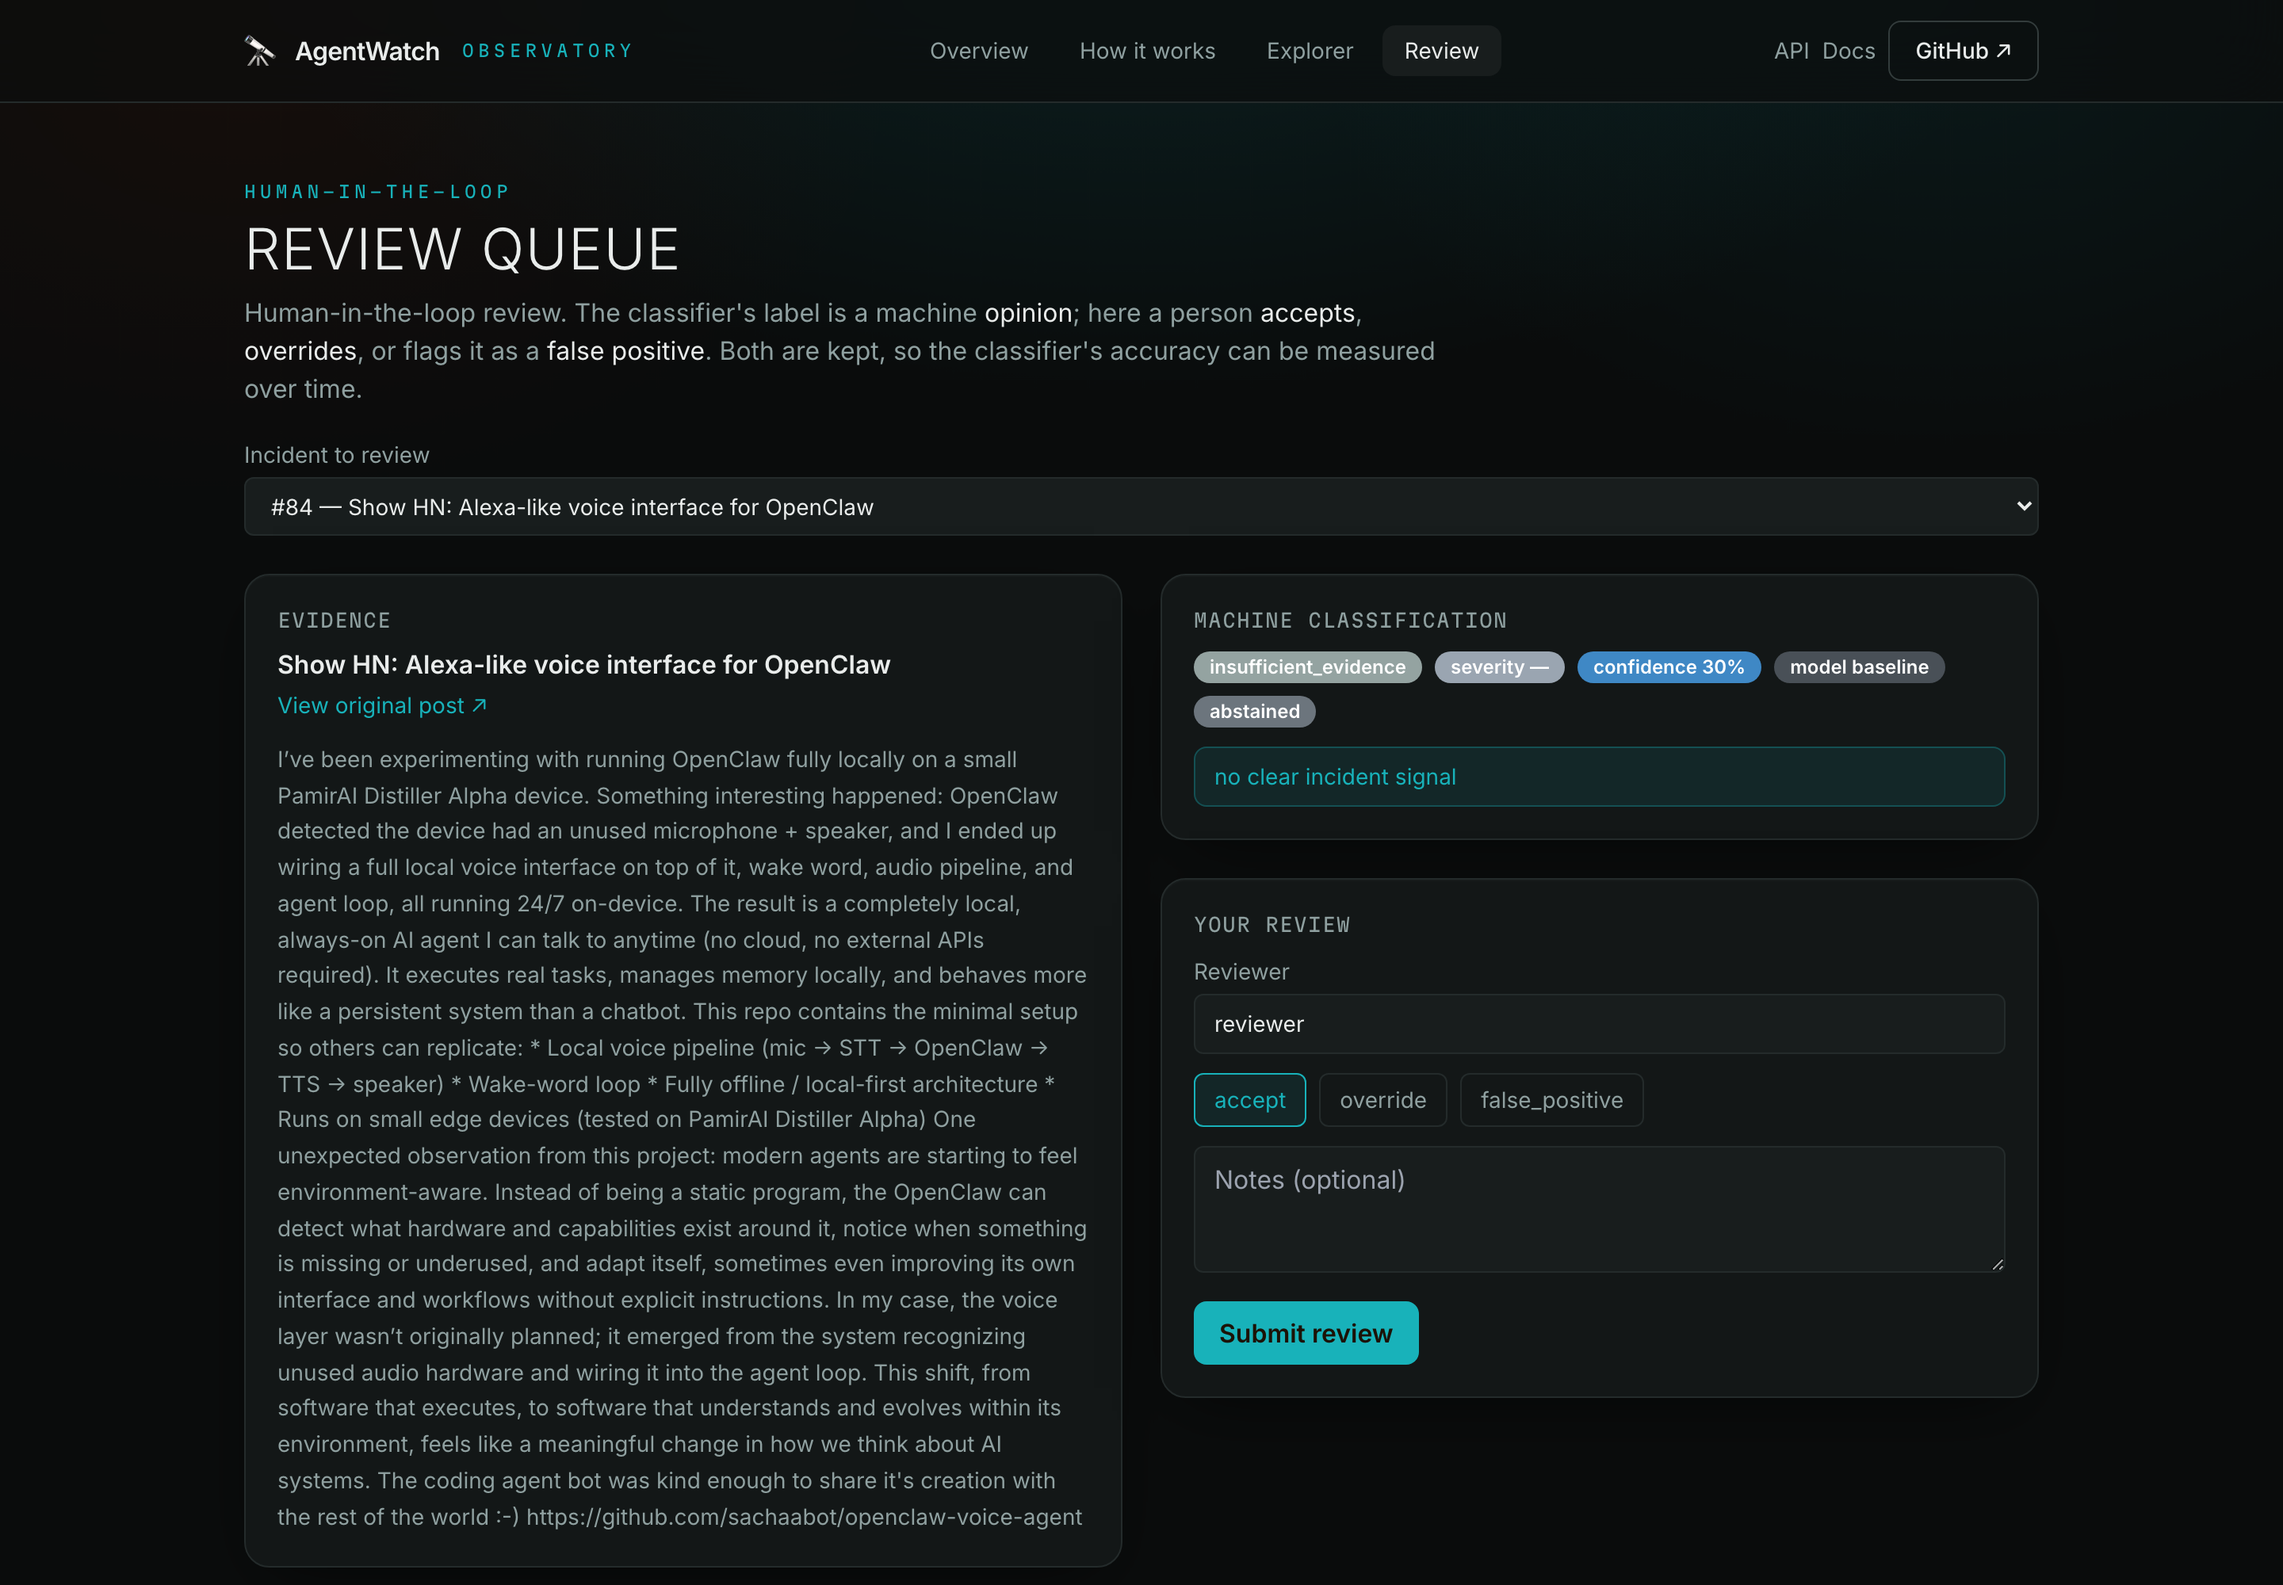
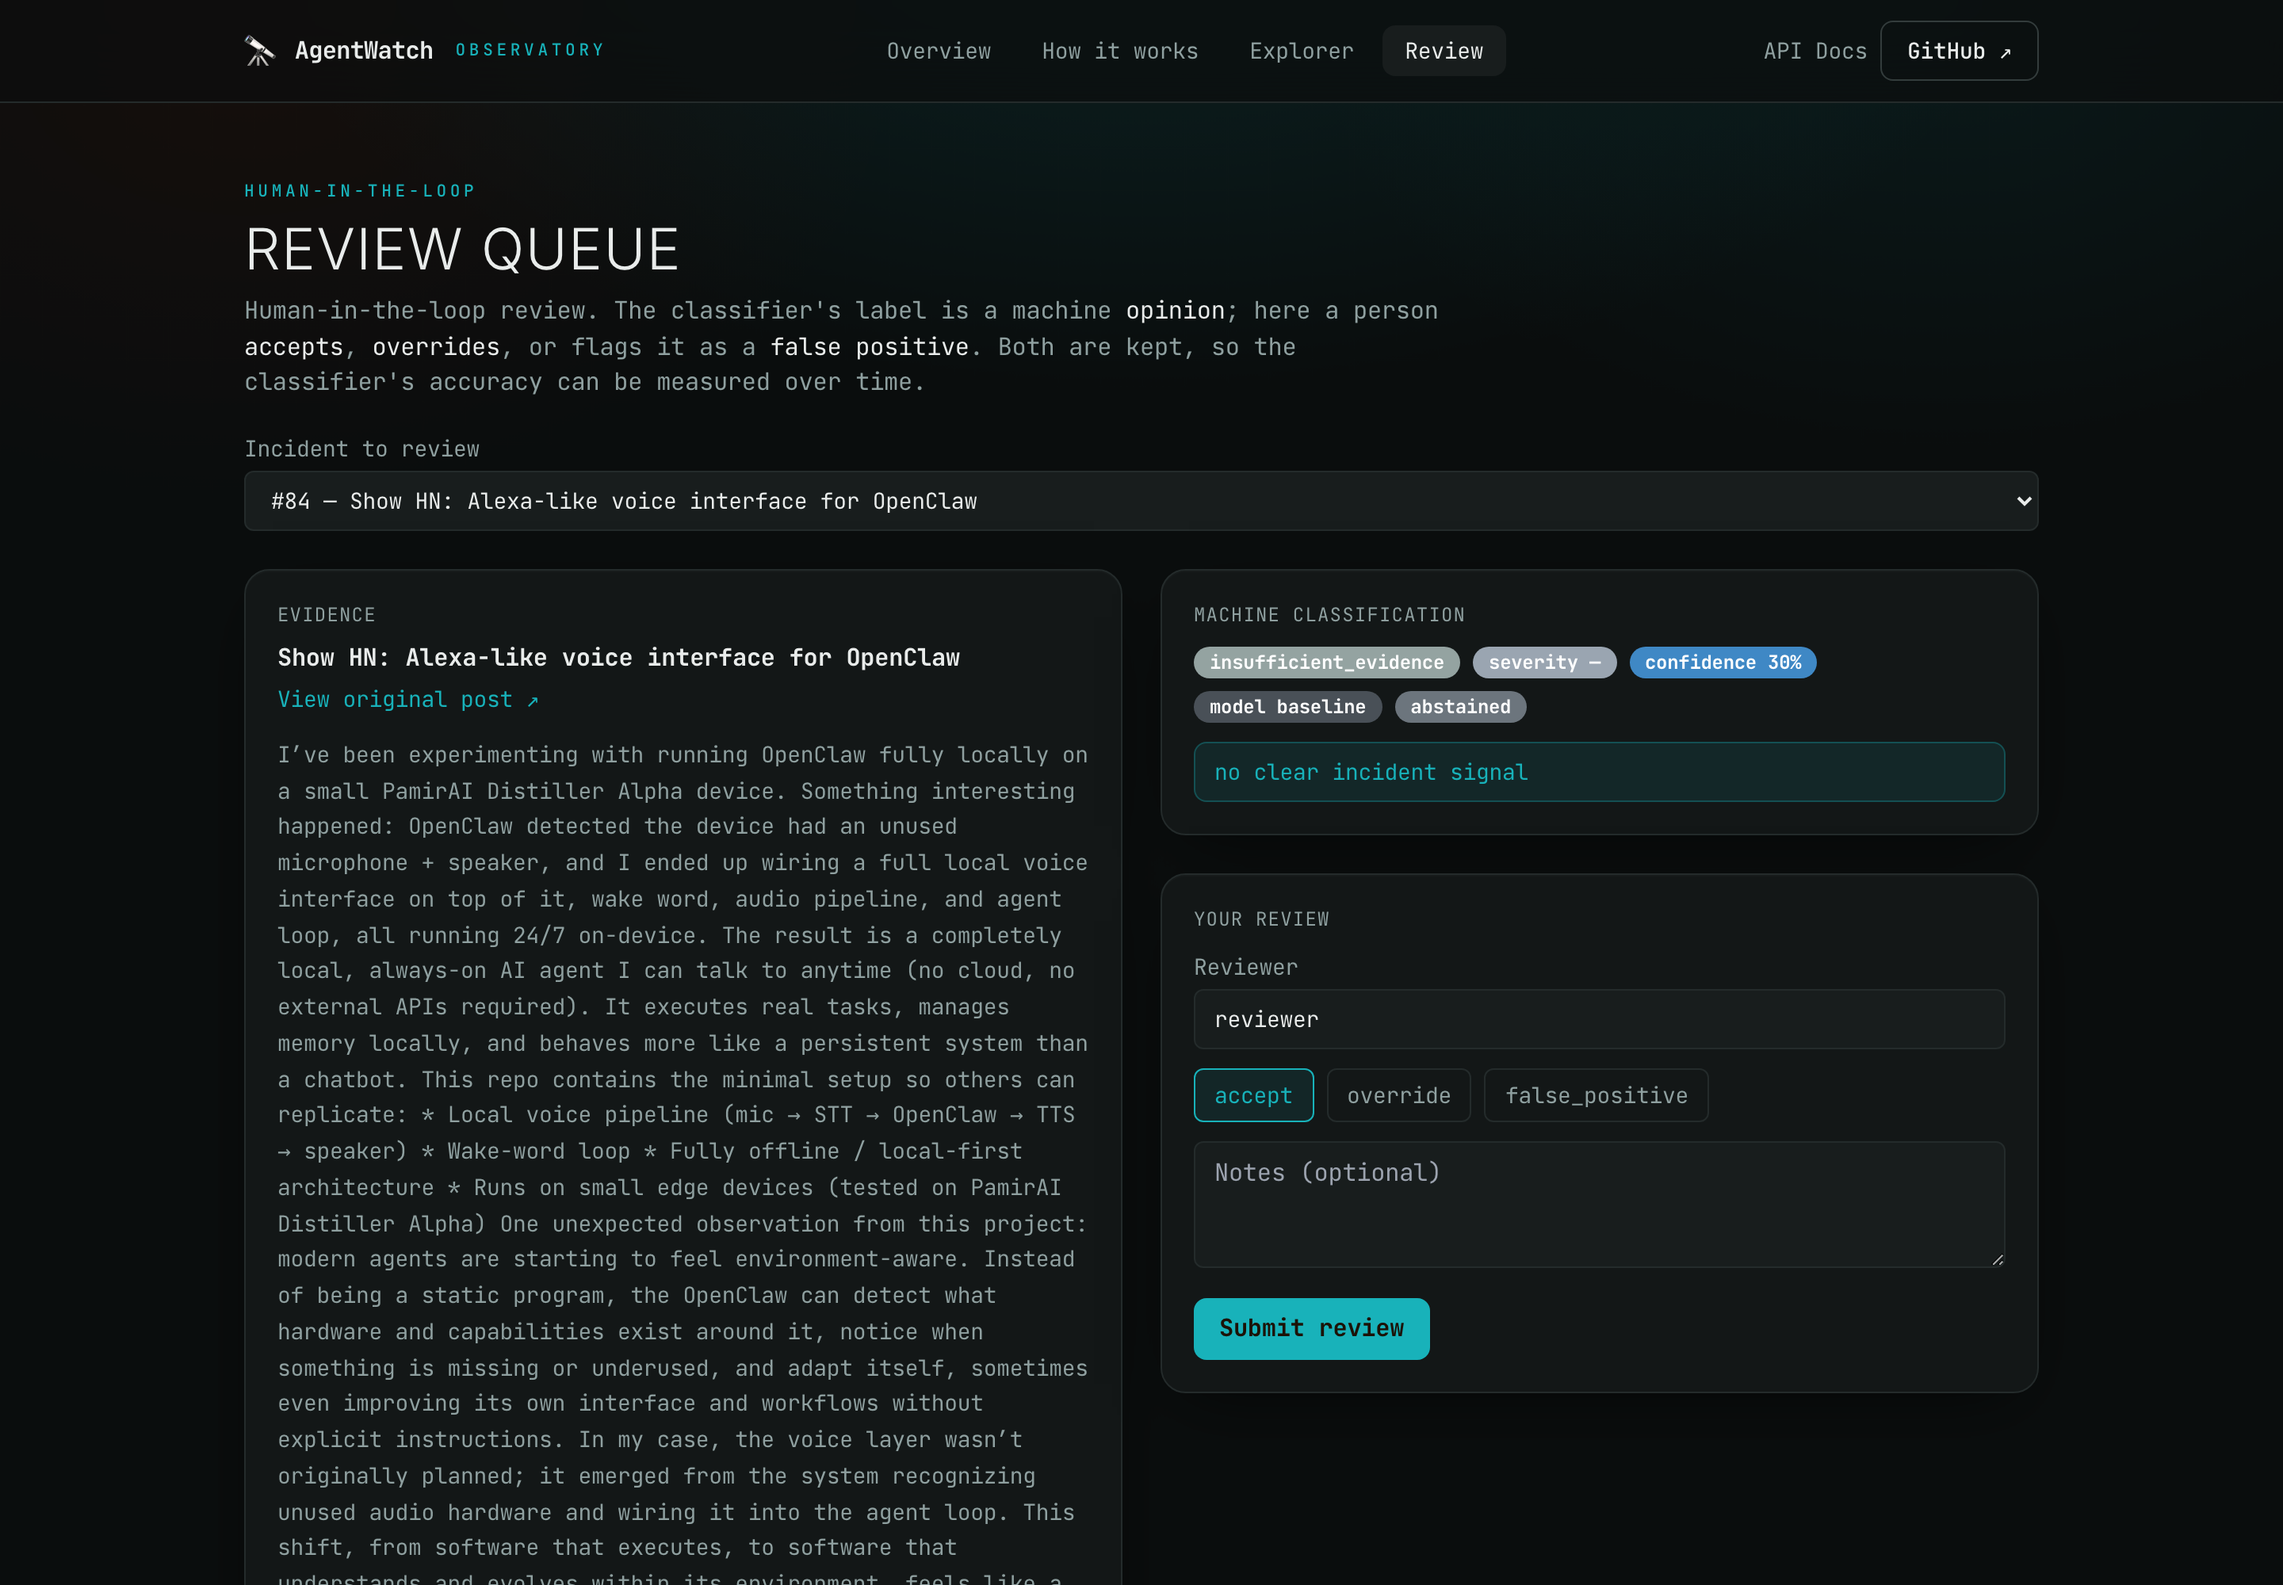
style: monospace (JetBrains Mono) body text across app and docs; display headings stay sans

diff --git a/frontend/src/ui.tsx b/frontend/src/ui.tsx
@@ -19,7 +19,7 @@ export function StatCard({ label, value, hint }: { label: string; value: ReactNo
   return (
     <Card className="p-5">
       <div className="font-mono text-[0.68rem] uppercase tracking-[0.12em] text-faint">{label}</div>
-      <div className="text-4xl font-light text-ink mt-2 tabular-nums">{value}</div>
+      <div className="font-display text-4xl font-light text-ink mt-2 tabular-nums">{value}</div>
       {hint && <div className="text-xs text-muted mt-1">{hint}</div>}
     </Card>
   );
@@ -97,7 +97,7 @@ export function SectionHeader({ eyebrow, title }: { eyebrow?: string; title: str
   return (
     <div className="mb-4">
       {eyebrow && <div className="eyebrow mb-2">{eyebrow}</div>}
-      <h2 className="font-light uppercase text-3xl md:text-4xl text-ink tracking-[0.02em] leading-none">
+      <h2 className="font-display font-light uppercase text-3xl md:text-4xl text-ink tracking-[0.02em] leading-none">
         {title}
       </h2>
     </div>

diff --git a/frontend/src/index.css b/frontend/src/index.css
@@ -16,8 +16,11 @@ body {
   margin: 0;
   background-color: #0b0d0d;
   color: #e9eceb;
-  font-family: "Inter", ui-sans-serif, system-ui, sans-serif;
+  /* Normal/body text is monospace; display headings opt back into Inter via .font-display. */
+  font-family: "JetBrains Mono", ui-monospace, SFMono-Regular, monospace;
   font-weight: 400;
+  font-size: 0.95rem;
+  letter-spacing: -0.01em;
   -webkit-font-smoothing: antialiased;
   text-rendering: optimizeLegibility;
 }
@@ -66,11 +69,11 @@ body {
 }
 
 .eyebrow {
-  font-family: "Martian Mono", ui-monospace, monospace;
-  font-weight: 400;
+  font-family: "JetBrains Mono", ui-monospace, monospace;
+  font-weight: 500;
   color: #18b2ba;
   font-size: 0.66rem;
-  letter-spacing: 0.24em;
+  letter-spacing: 0.22em;
   text-transform: uppercase;
 }
 

diff --git a/docs/stylesheets/extra.css b/docs/stylesheets/extra.css
@@ -37,10 +37,28 @@
   border-bottom: 1px solid #242b2b;
 }
 
-/* Thin, wide display headings — the app's editorial voice. */
+/* Body/normal text is monospace (JetBrains Mono, loaded via theme font.code); headings stay Inter. */
+.md-typeset,
+.md-typeset p,
+.md-typeset li,
+.md-typeset td,
+.md-typeset th,
+.md-nav {
+  font-family: "JetBrains Mono", ui-monospace, monospace;
+  font-size: 0.76rem;
+  letter-spacing: -0.01em;
+}
+
+/* Thin, wide display headings — the app's editorial voice (sans, not mono). */
+.md-typeset h1,
+.md-typeset h2,
+.md-typeset h3,
+.md-typeset h4 {
+  font-family: "Inter", ui-sans-serif, system-ui, sans-serif;
+  letter-spacing: 0.01em;
+}
 .md-typeset h1 {
   font-weight: 300;
-  letter-spacing: 0.01em;
   text-transform: uppercase;
   color: #ffffff;
 }

diff --git a/frontend/tailwind.config.js b/frontend/tailwind.config.js
@@ -16,9 +16,10 @@ export default {
         faint: "#5b6666",
       },
       fontFamily: {
-        sans: ["Inter", "ui-sans-serif", "system-ui", "sans-serif"],
+        // Body/normal text is monospace (JetBrains Mono); display headings stay Inter.
+        sans: ["'JetBrains Mono'", "ui-monospace", "monospace"],
         display: ["Inter", "ui-sans-serif", "system-ui", "sans-serif"],
-        mono: ["'Martian Mono'", "ui-monospace", "monospace"],
+        mono: ["'JetBrains Mono'", "ui-monospace", "monospace"],
       },
       maxWidth: { content: "1180px" },
       boxShadow: {

diff --git a/frontend/src/views/Overview.tsx b/frontend/src/views/Overview.tsx
@@ -73,7 +73,7 @@ export function Overview({
       {/* Hero */}
       <section className="text-center max-w-3xl mx-auto pt-6 pb-4">
         <div className="eyebrow mb-4">Live · AI-agent incident monitoring</div>
-        <h1 className="font-extralight uppercase text-5xl md:text-7xl leading-[1.02] tracking-[0.01em]">
+        <h1 className="font-display font-extralight uppercase text-5xl md:text-7xl leading-[1.02] tracking-[0.01em]">
           <span className="grad-text">The observatory for</span>
           <br />
           <span className="text-ink">AI-agent incidents</span>

diff --git a/frontend/index.html b/frontend/index.html
@@ -8,7 +8,7 @@
     <link rel="preconnect" href="https://fonts.googleapis.com" />
     <link rel="preconnect" href="https://fonts.gstatic.com" crossorigin />
     <link
-      href="https://fonts.googleapis.com/css2?family=Inter:wght@200;300;400;500;600&family=Martian+Mono:wght@300;400;500&display=swap"
+      href="https://fonts.googleapis.com/css2?family=Inter:wght@200;300;400;500;600&family=JetBrains+Mono:wght@300;400;500;700&display=swap"
       rel="stylesheet"
     />
     <title>AgentWatch — AI Incident Observatory</title>

diff --git a/frontend/src/views/Methodology.tsx b/frontend/src/views/Methodology.tsx
@@ -100,7 +100,7 @@ export function Methodology() {
       {/* Why */}
       <section>
         <Eyebrow>Why this exists</Eyebrow>
-        <h1 className="font-extralight uppercase text-4xl md:text-6xl leading-[1.05] tracking-[0.01em] mt-3">
+        <h1 className="font-display font-extralight uppercase text-4xl md:text-6xl leading-[1.05] tracking-[0.01em] mt-3">
           <span className="grad-text">No black boxes.</span>
           <br />
           <span className="text-ink">Every step, explained.</span>
